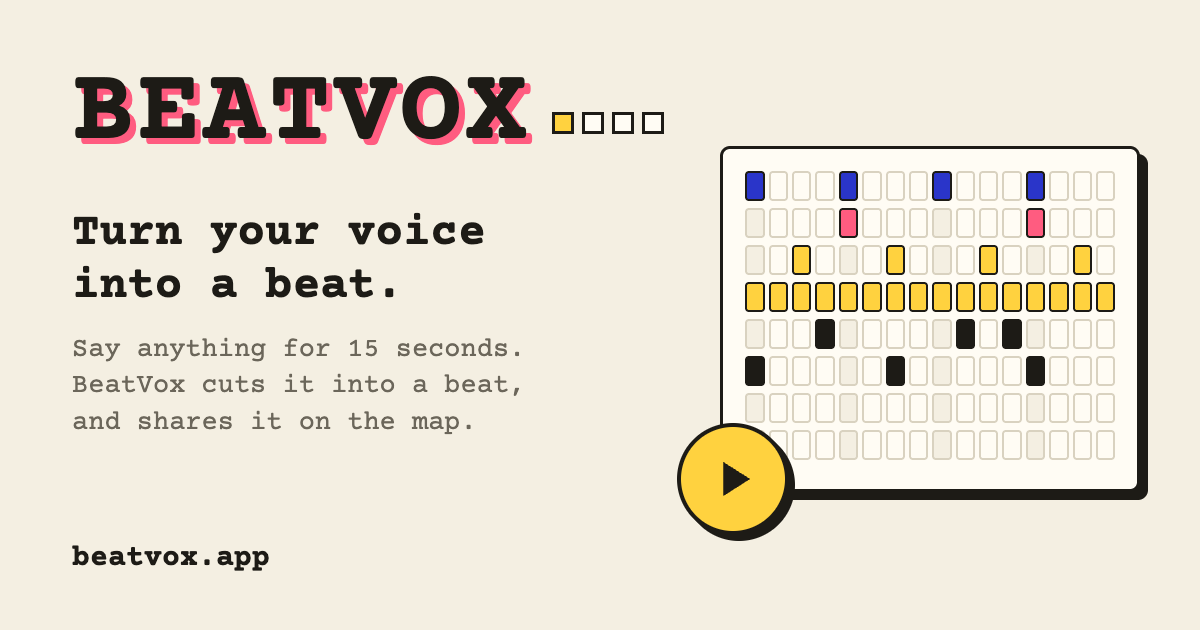
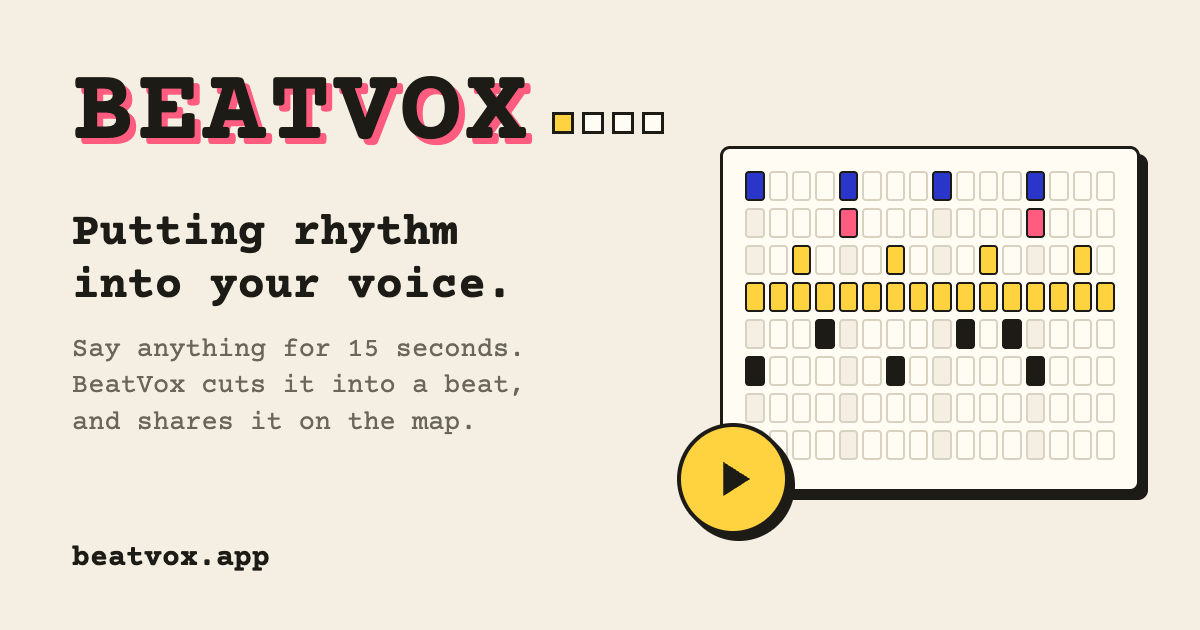
Tagline: "Putting rhythm into your voice."
The 2008 booth's line, on the site card, the map's link preview and the
app manifest. The card's second line still says what happens.

Changed region(s): [[0.0617, 0.3317, 0.4317, 0.4825]]

diff --git a/src/lib/preview.test.ts b/src/lib/preview.test.ts
@@ -71,7 +71,7 @@ describe('injectMeta', () => {
 describe('sitePreview', () => {
   it('gives the map, the studio and About the site card, at a clean address', () => {
     const home = sitePreview('https://beatvox.app/');
-    expect(home?.title).toBe('BeatVox: turn your voice into a beat');
+    expect(home?.title).toBe('BeatVox: putting rhythm into your voice');
     expect(home?.image).toBe('https://beatvox.app/og/beatvox.png');
     expect(sitePreview('https://beatvox.app/studio?revox=12')?.url).toBe('https://beatvox.app/studio');
     expect(sitePreview('https://beatvox.app/about/')?.title).toBe('About BeatVox');

diff --git a/dev/og-card.html b/dev/og-card.html
@@ -160,7 +160,7 @@
           <h1>BEATVOX</h1>
           <div class="leds"><i></i><i></i><i></i><i></i></div>
         </div>
-        <p class="tag">Turn your voice<br />into a beat.</p>
+        <p class="tag">Putting rhythm<br />into your voice.</p>
         <p class="sub">Say anything for 15 seconds.<br />BeatVox cuts it into a beat,<br />and shares it on the map.</p>
         <div class="url">beatvox.app</div>
       </div>

diff --git a/src/lib/preview.ts b/src/lib/preview.ts
@@ -24,7 +24,7 @@ export const SITE_CARD = '/og/beatvox.png';
 
 const SITE_PAGES: Record<string, { title: string; description: string }> = {
   '/': {
-    title: 'BeatVox: turn your voice into a beat',
+    title: 'BeatVox: putting rhythm into your voice',
     description: 'Beats made from people’s voices, on a map of the world. Listen, wander, and make your own.',
   },
   '/studio': {
